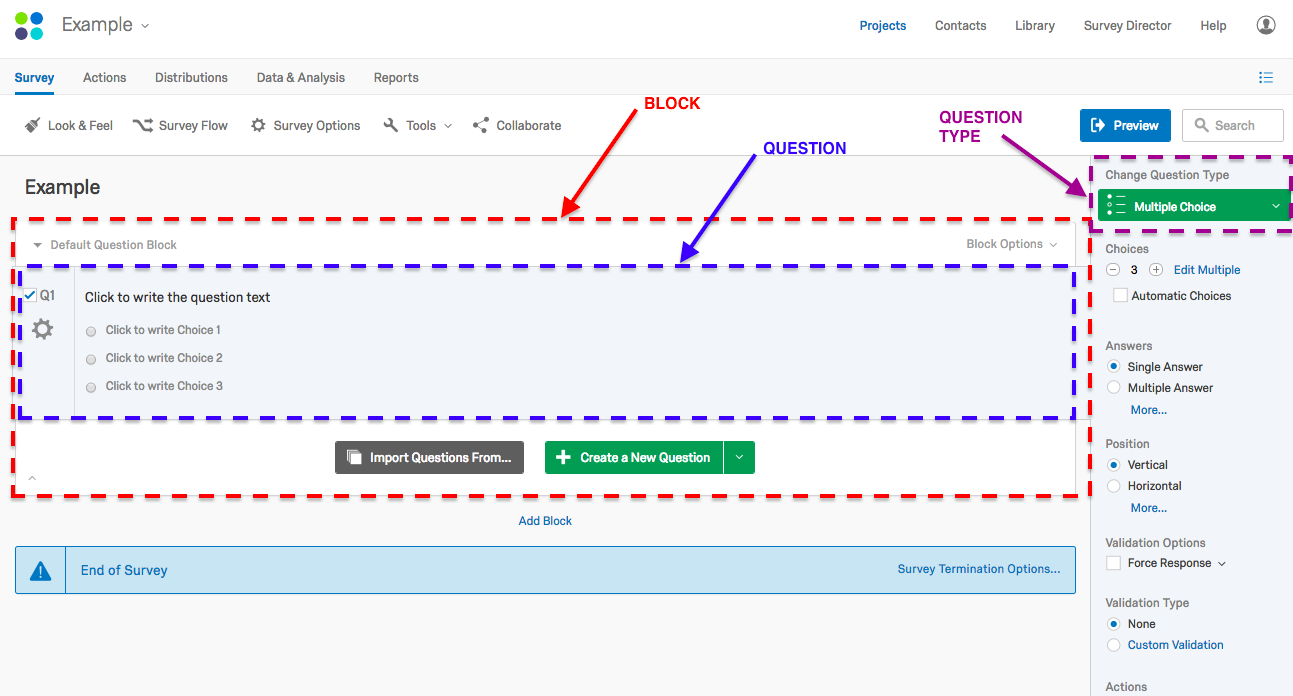
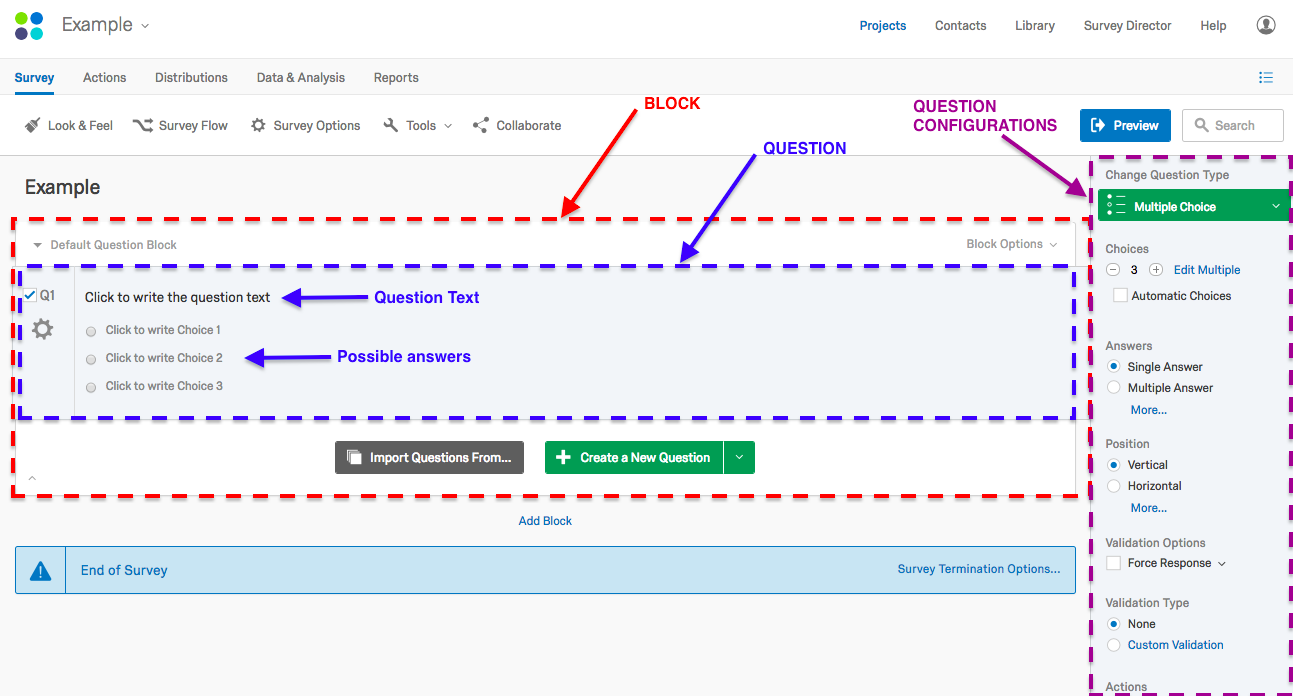
first commit

diff --git a/docs/modules/2-Qualtrics-platform-features.md b/docs/modules/2-Qualtrics-platform-features.md
@@ -56,11 +56,19 @@ Then on the righthand side we have an option to **Preview Survey** and to search
 
 The line of options above the toolbar (with **Survey**, **Actions**, etc) is also interest but let's return to this later. Basically, these are the options that we'll want to use as we progress through the survey workflow. For now, we are in the **Survey** tab because we are building a survey.
 
-#### Developing questions
+![survey editor](images/intro-survey-editor.png)
+
+#### Blocks
 The other significant part of the Survey Editor is how we can create and edit our survey questions.
 
 One important thing to learn about Qualtrics surveys is that they are created using "**blocks**". Blocks are like sections or components of the survey. The advantage of building your survey with blocks is that it is easy for you engineer the experience of the respondent, depending on a few factors (again, **Survey Flow** is where we would do this, which we cover in the Intermediate Course). If this is not something of importance to you, then you can have all of your questions in just one block.
 
-![survey editor](images/intro-survey-editor.png)
+#### Questions and Question Types
+Within the Blocks is where questions are developed. Creating questions is as easy as a click on `+ Create a New Question`, which, if you press this, will create a multiple choice question by default. You can edit the survey question if you click on the question test field. Similarly for the questions possible responses, click on the greyed text below the question and enter your options.
+
+For all configurations of the question, including changing the question type, the number of answer choices, how the question displays and what possible answers can be given to the question, can done in the righthand menu.
+
+## Next
+In the next module we're going to explore all of these features.
 
 >[Go to Module 3]({{ site.baseurl }}/modules/3-experiment-with-qualtrics){: .next-link}
